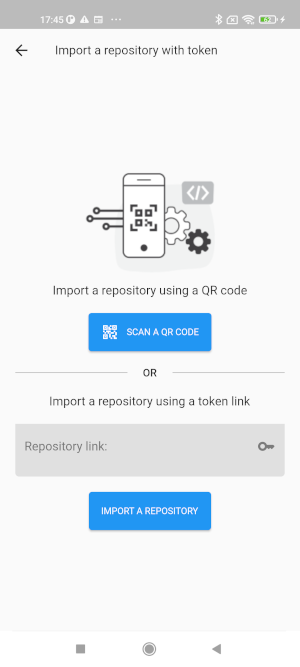
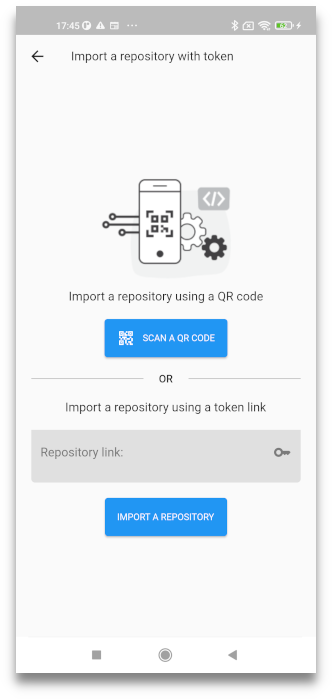
added drop shadows to screenshots

Changed region(s): [[0.0, 0.0, 1.0, 0.9895], [0.27, 0.2399, 0.72, 0.3898]]

diff --git a/assets/styles.css b/assets/styles.css
@@ -593,7 +593,6 @@ a, area, button, [role="button"], input:not([type="range"]), label, select, summ
   box-sizing: border-box;
 }
 
-}
 
 /* layouts/partials/footer.html */
 

diff --git a/content/en-us/faq.md b/content/en-us/faq.md
@@ -23,7 +23,7 @@ Where can I see my repositories?
 {{% markdown %}}
 When you open the **Ouisync app**, after the onboarding screens you will see the main screen listing all the repositories you have created. Initially this screen will be empty, but as you begin creating _**repositories**_, they will be listed here. 
 
-{{< figure src="/img/my_repositories.png" alt="Ouisync home page listing your repositories" >}}
+{{< figure src="/img/my_repositories.png" alt="Ouisync home page listing your repositories">}}
 
 {{% /markdown %}}
 </details> 
